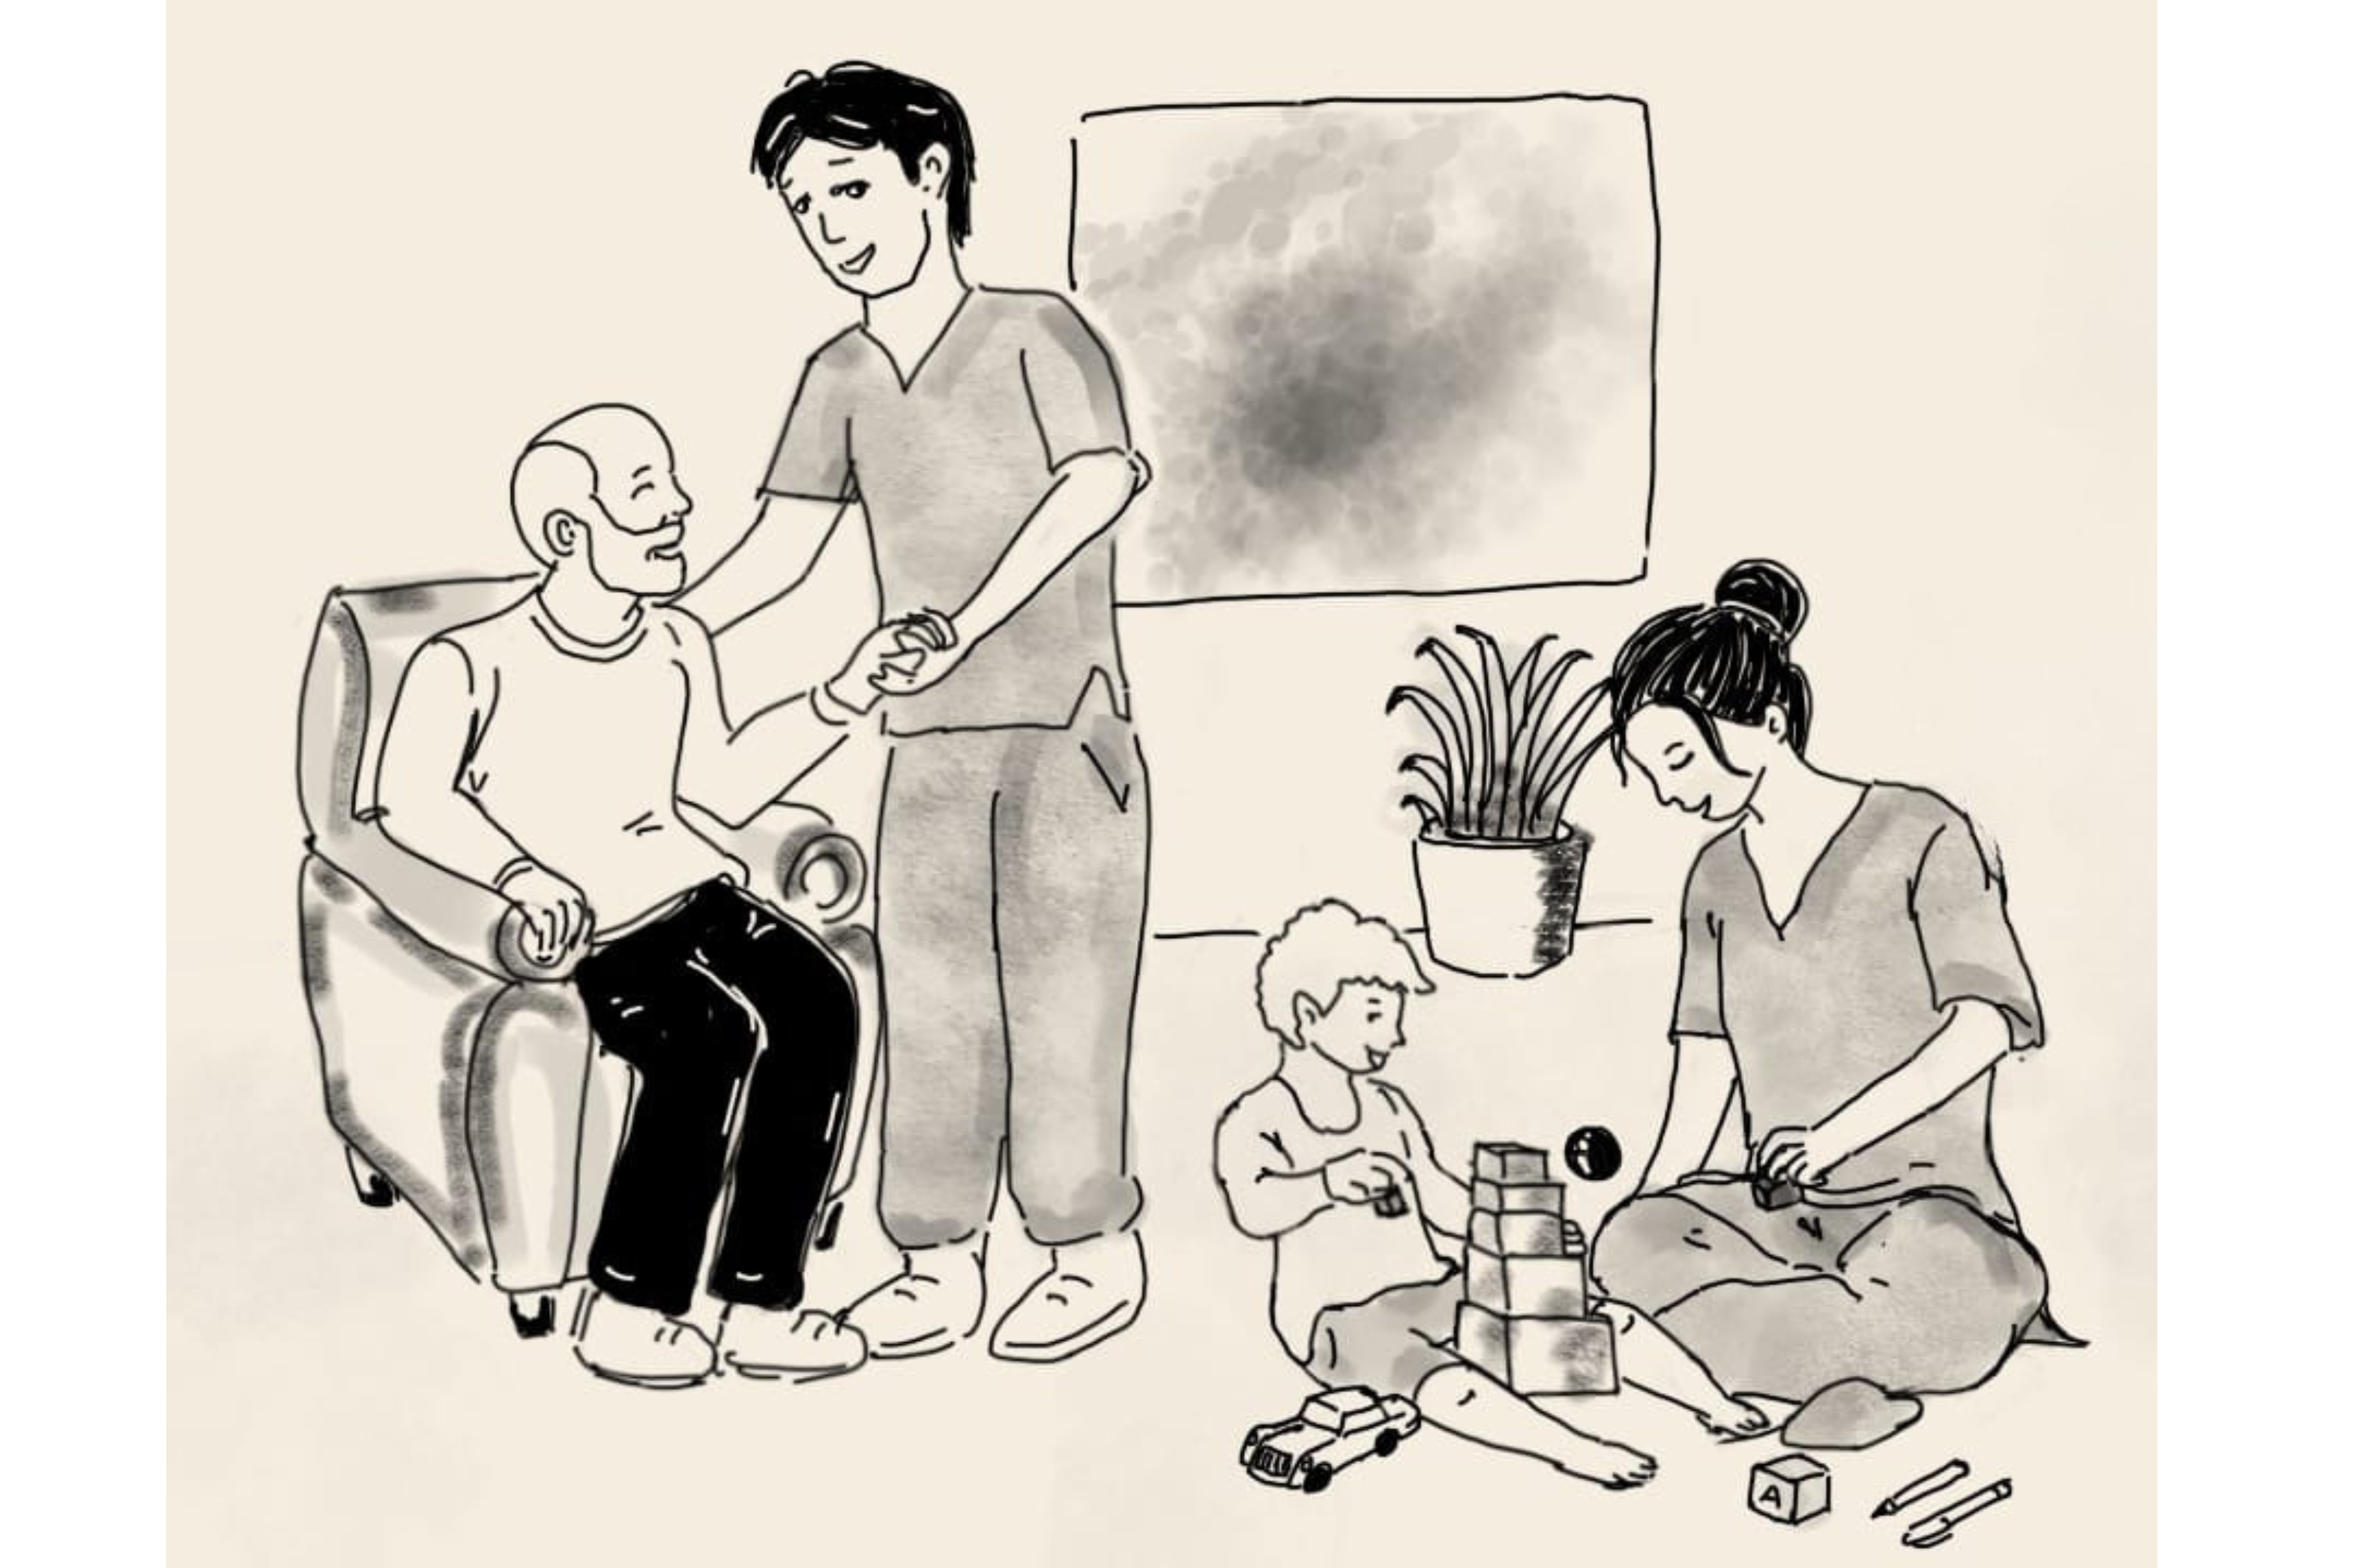
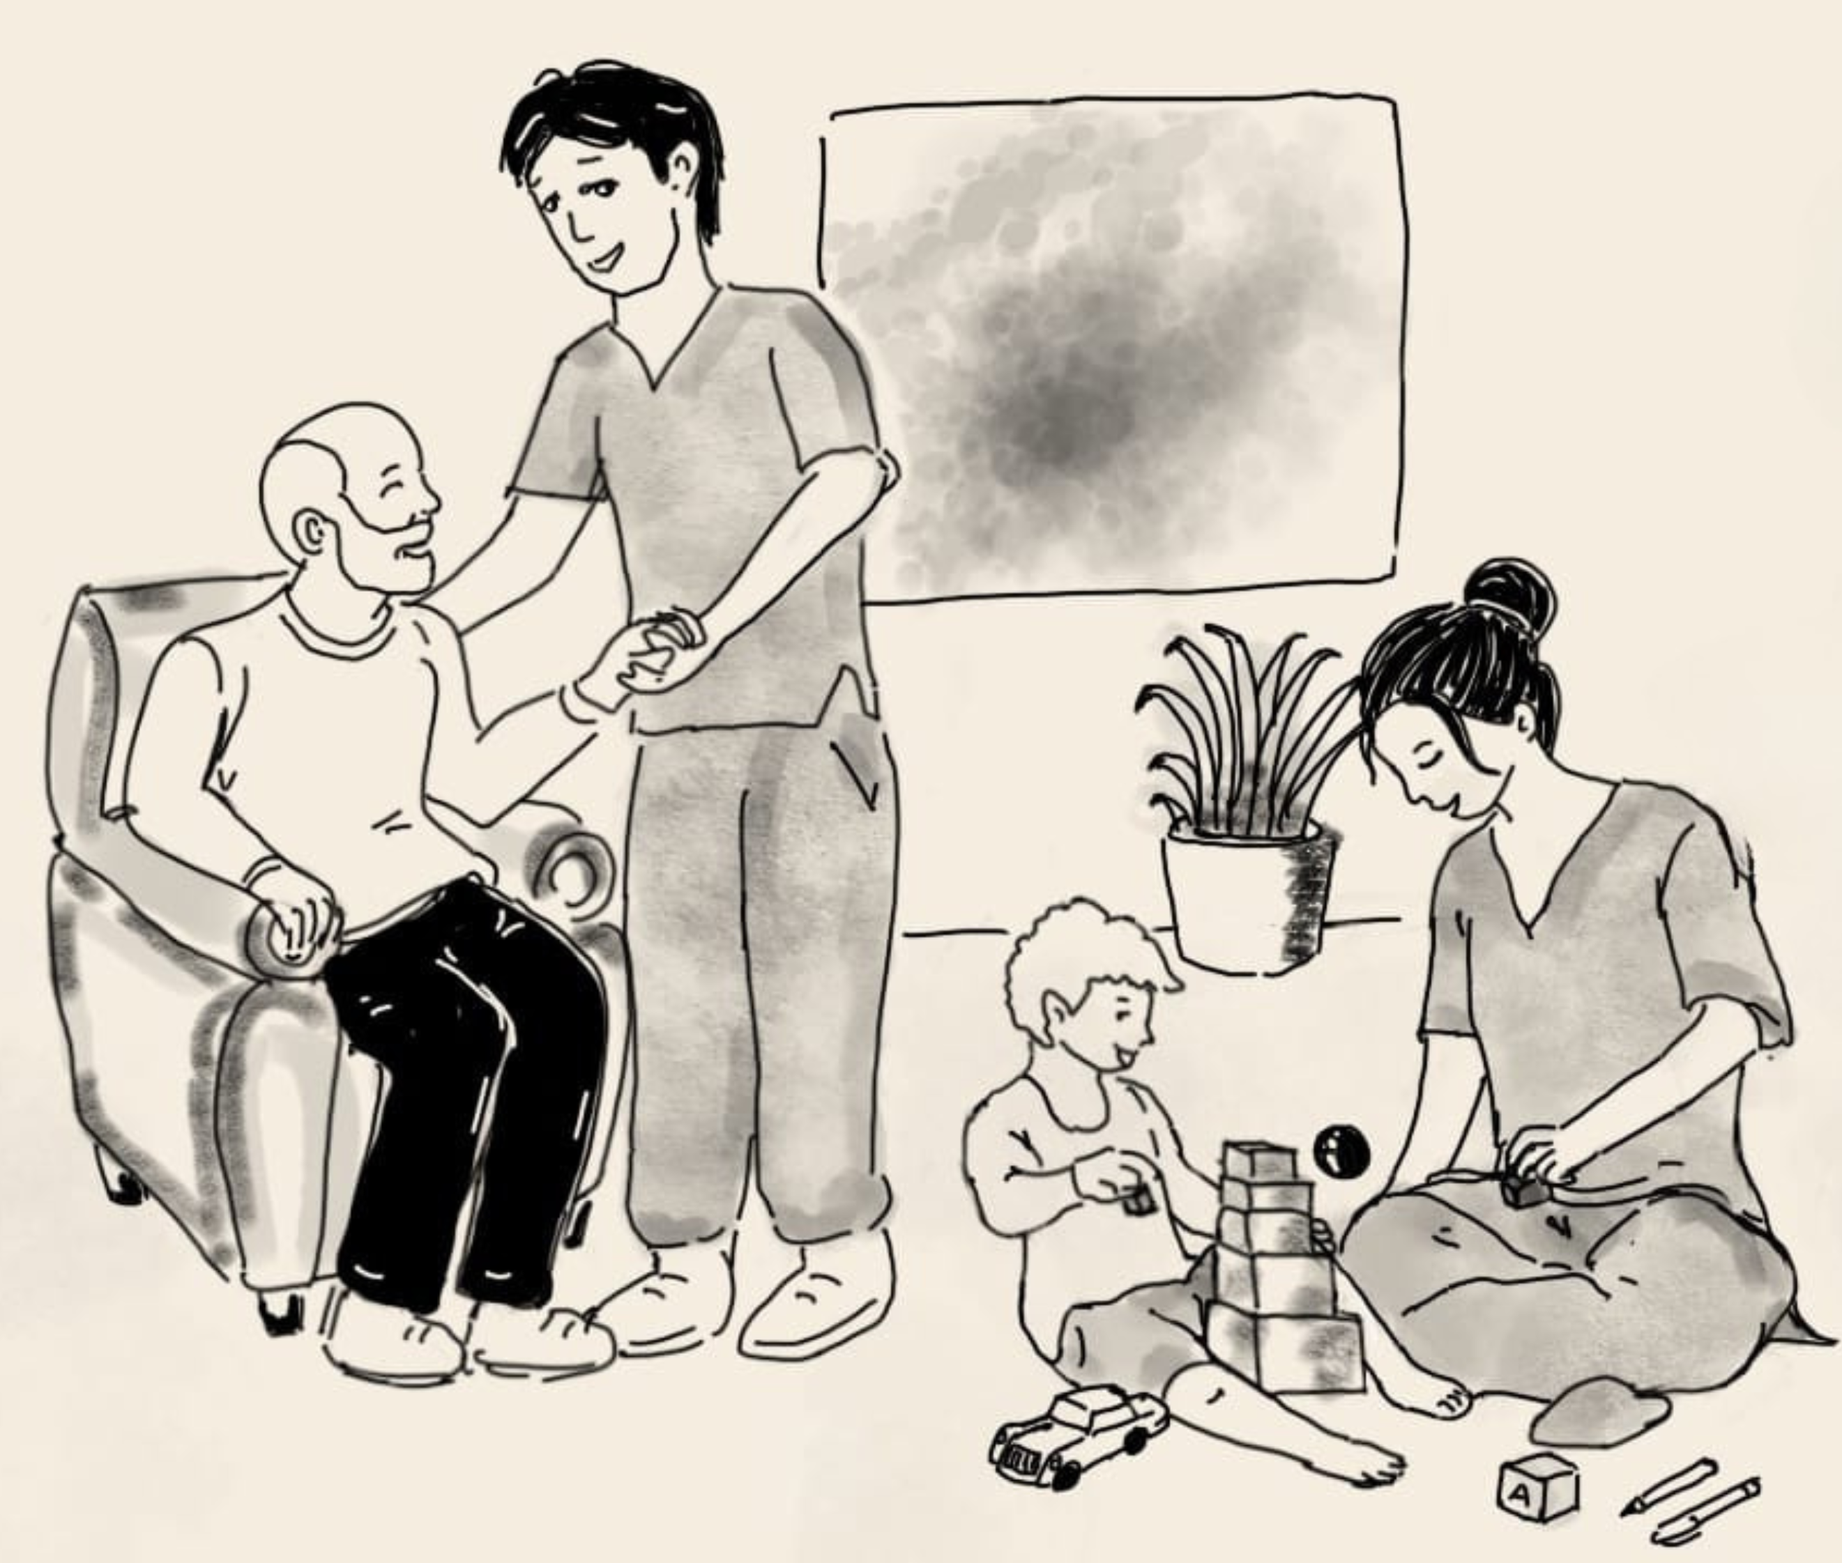
fixing changes

diff --git a/src/components/HeroX.tsx b/src/components/HeroX.tsx
@@ -60,11 +60,12 @@ const headingSizeClassName = `
     xl:text-7xl
 `;
 const paragraphSizeClassName = `
-    text-[3.8vw]
+    text-[3.3vw]
     sm:text-[3.5vw]
     md:text-[4vw]
     lg:text-2xl
     xl:text-2xl
+    3xl:text-[1.5vw]
 `;
 const imageSizeClassName = `
     w-[80%]
@@ -138,10 +139,10 @@ const HeroX = () => {
                                 Quality Allied Health Services, <br /> Right at Your Door.
                             </h1>
                             <p className={`pt-5 lg:pt-10 lg:pb-10 pb-5 text-gray-600 font-body text-center ${paragraphSizeClassName}`}>
-                                Lume Health offers mobile allied health services throughout Melbourne, catering to all ages and stages of life.
+                                Mobile allied health services throughout Melbourne, catering to all ages and stages of life.
                             </p>
                             <Image
-                                src="/images/nat-hero-cropped-2.PNG"
+                                src="/images/nat-hero-cropped.png"
                                 alt="Mortgage consultation illustration"
                                 width={1000}
                                 height={1000}
